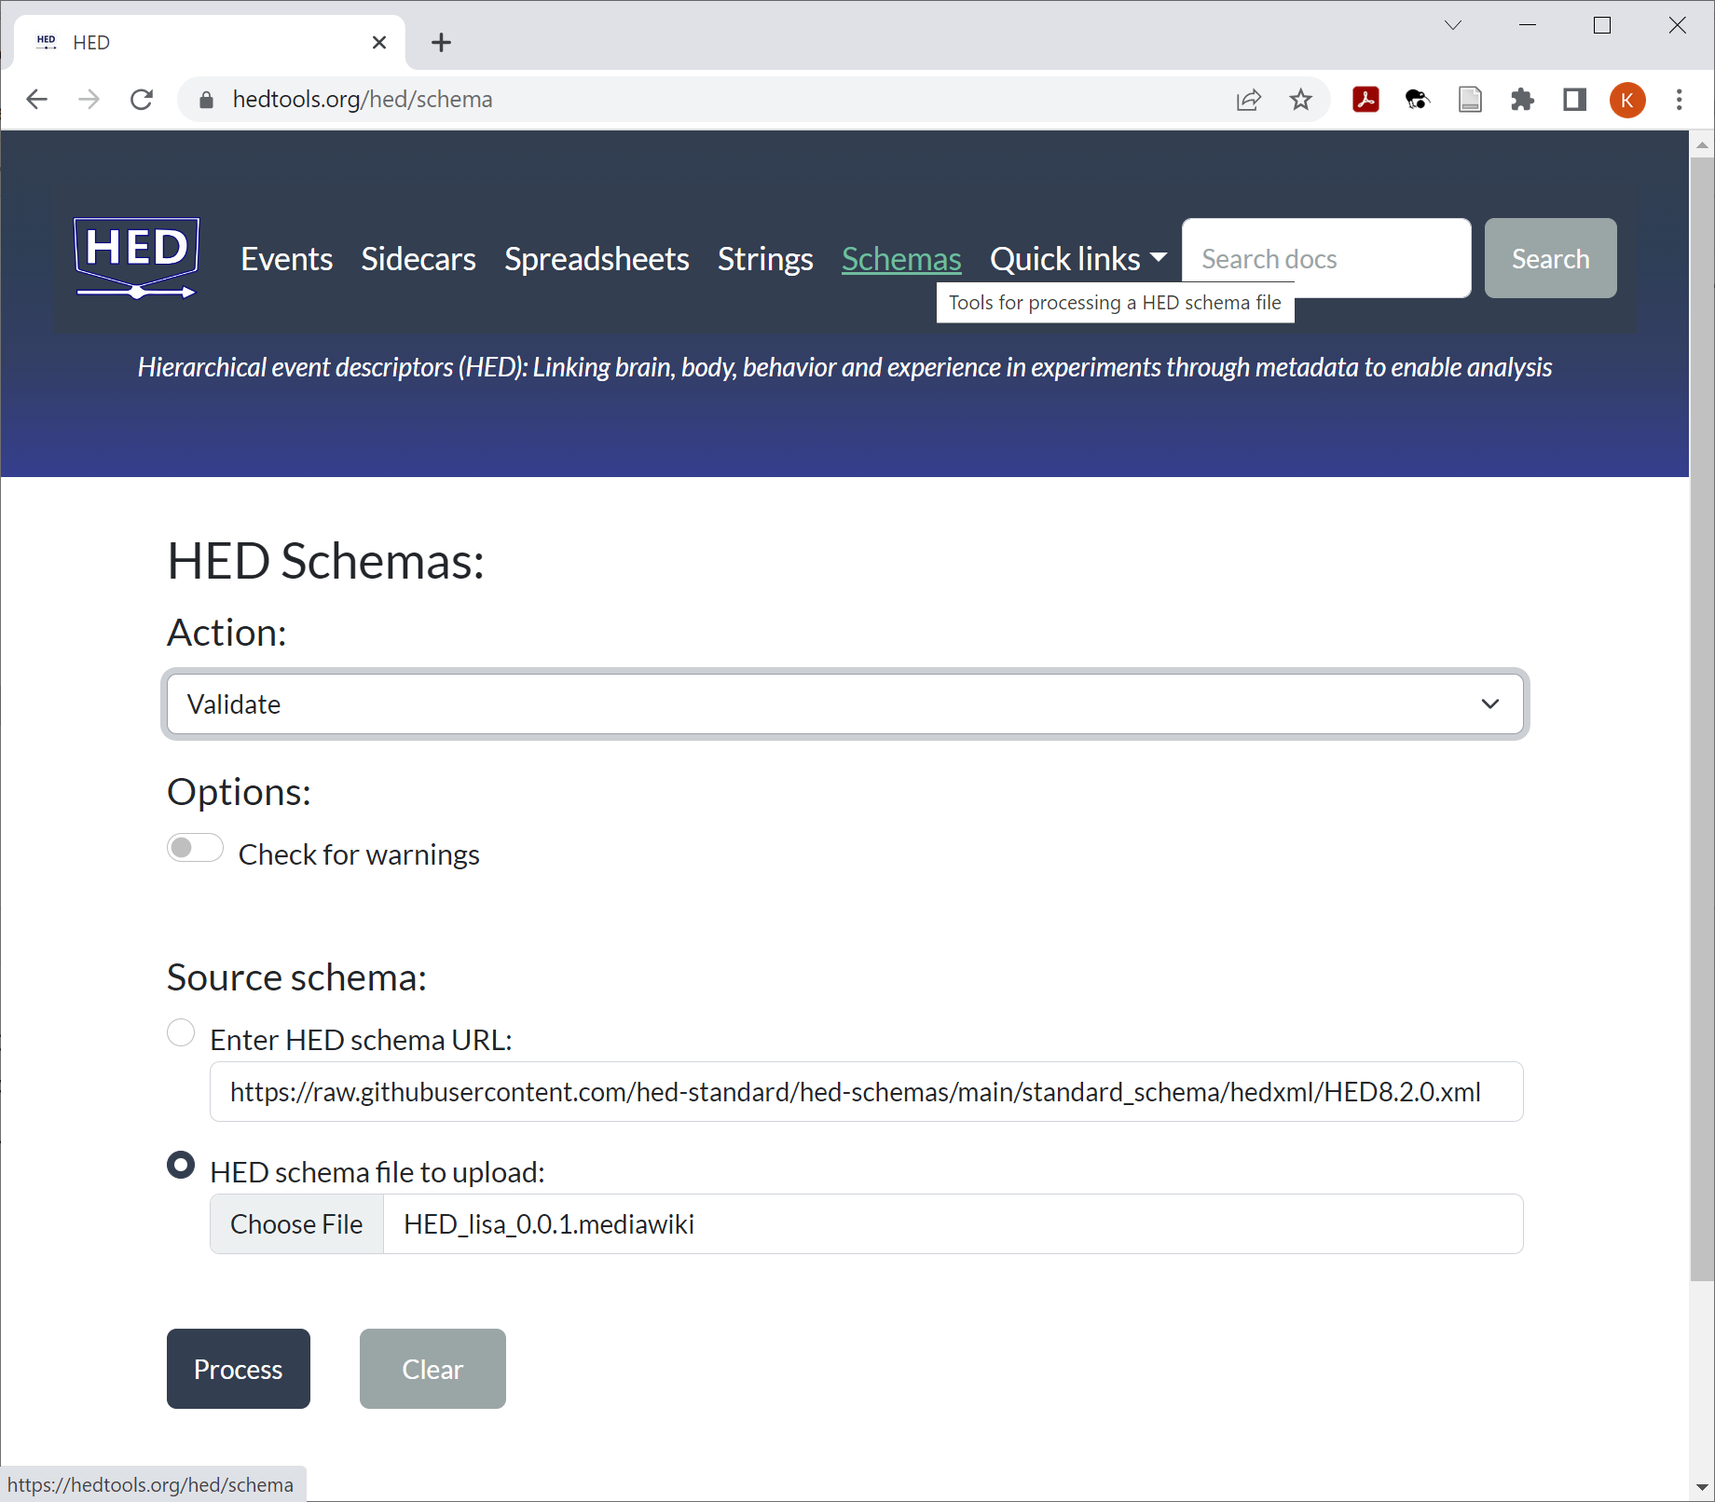
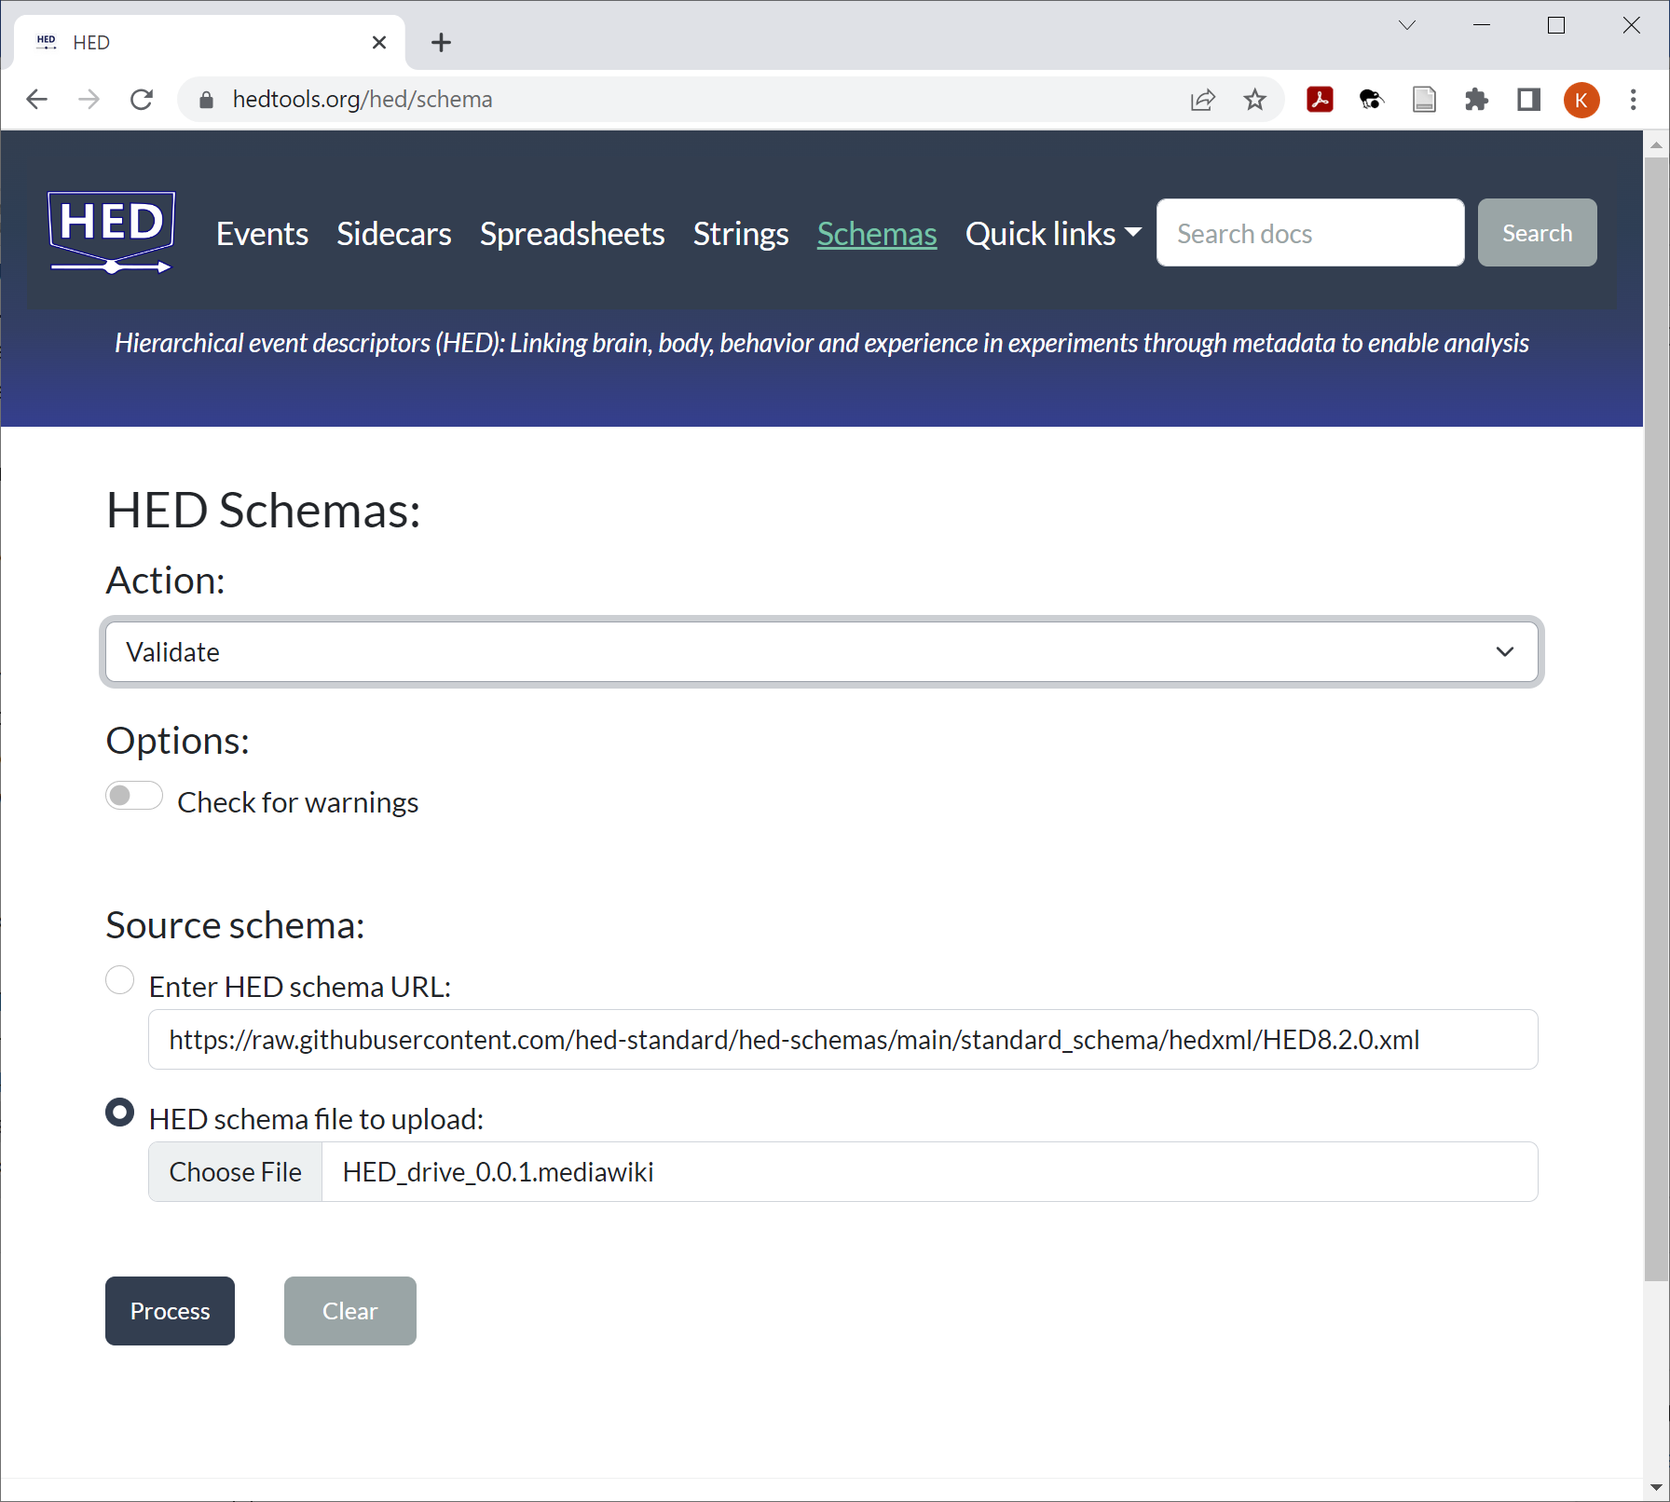
Continued rewrite of the schema developer's guide

diff --git a/docs/source/HedSchemaDevelopersGuide.md b/docs/source/HedSchemaDevelopersGuide.md
@@ -73,6 +73,8 @@ However, the tag names in the schema document follow the following conventions:
 - All letters in a tag name except for the first character are in lower case.  
 - Tags representing multiple words are hyphenated.
 
+The [**Naming conventions**](https://hed-specification.readthedocs.io/en/latest/03_HED_formats.html#naming-conventions) 
+section of the HED specification gives a complete discussion of naming conventions.
 
 ### Design principles for schema
 
@@ -147,8 +149,55 @@ to be placed under a node in the standard schema by giving it the `rooted=XXX`
 attribute, where `XXX` is the name of the parent node in
 the standard schema under which the subtree should be rooted.
 
+### Naming your schema
+
+Before starting, you must decide on a name for your schema.
+It should be a relatively short, informative, alphabetic string.
+The name can be an acronym or a meaningful name, 
+but it cannot be the same name as any other recognized HED schema.
+
+The SCORE library, for example, is an acronym based on its derivation from the
+SCORE standard: Standardized Computer Based Organized Reporting of EEG.
+The LISA library, a language schema now in prerelease, is another acronym standing for
+LInguistic Stimuli Annotation.
+A good name for the schema with vocabulary to describe experiments
+involving simulated driving might be DRIVE.
+
+### Getting listed
+
+To get recognized as a HED library schema project,
+post an issue to the hed-schemas [**issue forum**](https://github.com/hed-standard/hed-schemas/issues) with a brief overview
+of your schema, its purpose, and your development team.
+The HED Working Group will work with you to get started.
+
+As part of the initiation process, the HED Working Group
+will create a subdirectory in the
+[**library_schemas**](https://github.com/hed-standard/hed-schemas/tree/main/library_schemas)
+directory in the [**hed-schemas**](https://github.com/hed-standard/hed-schemas)
+GitHub repository.
+
+The new directory will named with the name of your schema and have a **prerelease** subdirectory.
+You will use the GitHub Pull Request (PR) mechanism to make changes in 
+this directory. 
+
+### Schema file names
+
+All HED schemas, including library schemas, adhere to [**semantic versioning**](https://semver.org/). 
+The rules for what constitutes major, minor and patch changes are given
+in the hed-schemas [**README**](https://github.com/hed-standard/hed-schemas/#hed-semantic-versioning).
+
+Suppose you are just starting to create a library called DRIVE for
+a vocabulary specific to simulated driving tasks.
+You should name your first version of your schema `drive_0.0.1.mediawiki`.
+This file will eventually go in the prerelease directory for your directory
+on [**hed-schemas**](https://github.com/hed-standard/hed-scheams).
 
 ## Creating your schema
+
+The following sections briefly describe how to go about actually creating your schema
+files.
+
+### Introducing MediaWiki
 
 Schema developers work with HED schema in `.mediawiki` format for ease in editing.
 MediaWiki is a markdown-like text format that can be displayed
@@ -169,213 +218,104 @@ as illustrated in the following example:
 ```
 ````
 
+The MediaWiki GitHub previewer shows this as:
+
+![GitHubPreview](./_static/images/GitHubPreviewOfMediaWiki.png)
+
 Each line in the MediaWiki file represents a distinct tag (or other schema entity),
 so `Top-level-`, `Child-1`, `Grandchild-1`, and `Child-2` are all
 tags or terms in the schema.
+
 Lines defining tags cannot be split.
 
 Everything after the tag name should be enclosed in
-&lt;nowiki&gt; &lt;/nowiki&gt; delimiters.
+<b>&lt;nowiki&gt; &lt;/nowiki&gt;</b> delimiters.
 The tag description appears in square brackets ([ ]),
 while the schema attributes such as `extensionAllowed` are
 enclosed in curly braces ({ }).
 
-Each tag line should always inc
-or other schema element.
-The tag `Top-level-1` is a top-level tag, a root of one of the schema's trees,
+The tag `Top-level-1`, which is a top-level tag or root of one of the schema's trees,
 represents a major category in the schema. Top-level tags are enclosed in 
 sets of three consecutive single quotes.
-In contrast child tags a
-HED tools generally use XML versions of the HED schema. 
 
+In contrast, child tags  such as `Child-1` appear on lines that start
+with 1 or more asterisks (`*`), indicating the level of indentation or
+alternatively depth in the schema tree.
 
+### Defining a schema
 
-As in Python programming packages, we anticipate that many HED schema libraries may be defined 
-and used, in addition to the base HED schema. Libraries allow individual research or
-clinical communities to annotate details of events in experiments designed to answer questions 
-of interest to particular to those communities.
+We assume that you are going to develop a partnered library schema,
+which require only the schema tags and no auxiliary sections.
+Unpartnered schemas require that the auxiliary sections to be provided,
+while partnered schemas use the auxiliary sections from their standard
+schema partner.
 
-Since it would be impossible to avoid naming conflicts across schema libraries
-that may be built in parallel by different user communities,
-HED supports schema library namespaces.
-Users will be able to add library tags qualified with [namespace designators](##schema-namespaces).
-
-All HED schemas, including library schemas, adhere to [semantic versioning](https://semver.org/). 
-
-
-## Defining a schema
-
-A HED library schema is defined in the same way as the base HED schema except that it has an
-additional attribute name-value pair, `library="xxx"` in the schema header. We will use as an
-illustration a library schema for driving. Syntax details for a library schema are similar to
-those for the base HED schema.
-See the [HED schema format specification](https://hed-specification.readthedocs.io/en/develop/03_HED_formats.html)
-for more details.
+The following illustrates the format for using an
+exemplar library schema called drive. 
 
 ````{admonition} **Example:** Driving library schema (MEDIAWIKI template).
 
 ```moin
-HED library="driving" version="1.0.0" 
-!# start schema 
-   [... contents of the HED driving schema ...]
-!# end schema
-   [... required sections specifying schema attribute definitions ...]
-!# end hed
+HED library="drive" version="0.0.1" withStandard="8.2.0" unmerged="true"
+
+'''Prologue'''
+Drive has tags of interest to driving experiments.
+
+!# start schema
+
+'''Vehicle-part''' <nowiki>{rooted=Device}[Parts of a vehicle of any kind.]</nowiki>
+* Steering-device <nowiki>[The part of a vehicle used for steering.]</nowiki>
+** Steering-wheel <nowiki>[A wheel used for steering as for a car.]</nowiki>
+** Steering-yoke <nowiki>[A horizontal column used for steering, primarily in aircraft.]</nowiki>
+* Brake-device <nowiki>[A part of a vehicle used for steering]</nowiki>
+
+!# end schema 
+
+!# end hed 
+
 ```
 ````
 
-The required sections specifying the [schema attributes](##attributes-and-classes)  are *unit-class-specification*, 
-*unit-modifier-specification*, *value-class-specification*, *schema-attribute-specification*,
-and *property-specification*.
+This schema would be saved in a MediaWiki file called `drive_0.0.1.mediawiki`.
+To start developing simply replace "drive" with the name of your schema
+and replace the drive tags with your own.
 
-````{admonition} **Example:** Driving library schema (XML template).
+### Checking syntax
 
-```xml
-<?xml version="1.0" ?>
-<HED library="driving" version="1.0.0">
-    [... contents of the HED_DRIVE schema ... ]
-</HED>
-```
-````
+You should validate your schema frequently when developing it using
+the [**HED online tools**](https://hedtools.org).
 
-The schema XML file should be saved as `HED_driving_1.0.0.xml` to facilitate 
-specification in tools.
+The following tools shows screen shows the user interface for
+validating your schema using the online tools.
 
-## Schema namespaces
+![ValidateSchema](./static/images/validateSchema.png)
 
-As part of the HED annotation process, users must associate a standard HED schema with their
-datasets. Users may also include tags from an arbitrary number of additional library schemas.
-For each library schema used to annotate a data recording, the user must associate a local 
-name with the appropriate library schema name and version. Each library must be associated 
-with a distinct local name within a recording annotations. The local names should be 
-strictly alphabetic with no blanks or punctuation. 
+Simply choose the MediaWiki file you wish to valid,
+select the *Validate* action and press *Process.
+If your file has errors, a text file containing the errors will become
+available.
 
-The user must pass information about the library schema and their associated local names to 
-processing functions. HED uses a standard method of identifying namespace elements by prefixing
-HED library schema tags with the associated local names. Tags from different library schemas can
-be intermixed with those of the base schema. Since the node names within a library must be
-unique, annotators can use short form as well as fully expanded tag paths for library schema 
-tags as well as those from the base-schema.
+### Converting to XML
 
-````{admonition} **Example:** Driving library schema example tags.
+Although developers use th Mediawiki format, tools access the
+schema in XML format.
+Use the [**HED online tools**](https://hedtools.org) to convert as shown in the following screenshot:
 
-```
-dp:Action/Drive/Change-lanes
-dp:Drive/Change-lanes
-dp:Change-lanes
-```
-````
-
-A colon (`:`) is used to separate the qualifying local name from the remainder of the tag. 
-Notice that *Action* also appears in the standard HED schema. Identical terms may be used 
-in a library schema and the standard HED schema. Use of the same term implies a similar 
-purpose. **Library schema developers should try not to reuse terms in the standard schema 
-unless the intention is to convey a close or identical relationship.**
-
-### Partnered Schemas
-Starting with HED schema version **8.2.0**, HED supports **partnered schemas**,
-which are library schemas that are merged with a standard schema.
-Partnered schemas allow schema designers to include library
-tags that are elaborations of tags in the standard schema in addition to other
-specialized tags. See the [HED schemas documentation](https://www.hed-resources.org/en/latest/HedSchemas.html#types-of-schemas) for more details.
-
-## Attributes and classes
-
-In addition to the specification of tags in the main part of a schema, a HED schema has 
-sections that specify unit classes, unit modifiers, value classes, schema attributes, 
-and properties. The rules for the handling of these sections for a library schema are 
-as follows:
-
-### Required sections
-
-The required sections of a library schema are: the *schema-specification*, 
-the *unit-class-specification*, the *unit-modifier-specification*, 
-the *value-class-specification* section, the *schema-attribute-specification* section, 
-and the *property-specification*. The library schema must include all required 
-schema sections even if the content of these sections is empty.
-
-### Relation to base schema
-
-Any schema attribute, unit class, unit modifier, value class, or property used in the
-library schema must be specified in the appropriate section of the library schema
-regardless of whether these appear in base schema. Validators check the library
-schema strictly on the basis of its own specification without reference to another 
-schema.
+![ValidateSchema](./static/images/validateSchema.png)
 
 
-
-### Unit classes
-
-The library schema may define unit classes and units as desired or include unit classes or 
-units from the base schema. Similarly, library schema may define unit modifiers or 
-reuse unit modifiers from the base schema. HED validation and basic analysis tools 
-validate these based strictly on the schema specification and do not use any outside 
-information for these.
-
-### Value classes
-
-The standard value classes (*dateTimeClass[*]*, *nameClass*, *numericClass[*]*, 
-*posixPath[*]*, *textClass[*]*) if used, should have the same meaning as in the 
-base schema. The hard-coded behavior associated with the starred ([*]) value 
-classes will be the same. Library schema may define additional value classes and 
-specify their allowed characters, but no additional hard-coded behavior will be 
-available in the standard toolset. This does not preclude special-purpose tools 
-from incorporating their own behavior.
-
-### Schema attributes
-
-The standard schema attributes (*allowedCharacter*, *defaultUnits*, *extensionAllowed*,
-*recommended*, *relatedTag*, *requireChild*, *required*, *SIUnit*, *SIUnitModifier*,
-*SIUnitSymbolModifier*, *suggestedTag*, *tagGroup*, *takesValue*, *topLevelTagGroup*, 
-*unique*, *unitClass*, *unitPrefix*, *unitSymbol*, *valueClass*) should have the same
-meaning as in the base schema. The hard-coded behavior associated with the schema 
-attributes will be the same. Library schema may define additional schema attributes. 
-They will be checked for syntax, but no additional hard-coded behavior will be available
-in the standard toolset. This does not preclude special-purpose tools from incorporating
-their own behavior.
-
-### Schema properties
-
-[**Schema properties**](https://hed-specification.readthedocs.io/en/latest/03_HED_formats.html#schema-properties) apply to schema attributes
-and indicate what the type of the schema attribute is.
-You should not add properties to your library schema as
-the handling of the schema properties is hard-coded into the HED tools.
-If you feel that there is a property that is needed,
-please post an issue on the hed-schemas GitHub 
-[**issues forum**](https://github.com/hed-standard/hed-schemas/issues).
-You can view them HED only supports the schema properties listed in Table B.2: *boolProperty*, 
-*unitClassProperty*, *unitModifierProperty*, *unitProperty*, and *valueClassProperty*.  
-If the library schema uses one of these in the library schema specification, 
-then its specification must appear in the *property-specification* section of the library schema.
-
-### Schema development process
+### Summarizing the process
 
 
 ````{admonition} **Standard development process for XML schema.**
 :class: tip
 
 1. Create or modify a `.mediawiki` file containing the schema.
-2. Validate the `.mediawiki` file using the [**HED online tools**](https://hedtools.ucsd.edu/hed/schema).
-3. Convert to `.xml` using the [**HED online tools**](https://hedtools.ucsd.edu/hed/schema).
+2. Validate the `.mediawiki` file using the [**HED online tools**](https://hedtools.org/hed/schema).
+3. Convert to `.xml` using the [**HED online tools**](https://hedtools.org/hed/schema).
 4. Act according to the (Procedure for updating a schema)[## Procedure for updating a schema] section to contribute your changes to the GitHub [**HED schemas repository**](https://github.com/hed-standard/hed-schemas).
-5. View in the [**expandable schema viewer**](https://www.hedtags.org/display_hed.html) to verify.
+5. View in the [**HED schema viewer**](https://www.hedtags.org/display_hed.html) to verify.
 ````
-
-## Syntax checking
-
-Regardless of whether a specification is in the standard schema or a library schema,
-HED tools can perform basic syntax checking.
-
-````{admonition} Basic syntax checking for library schema.
-:class: tip
-
-1. All attributes used in the schema proper must be defined in the schema attribute section of the schema.
-2. Undefined attributes cause an error in schema validation.
-3. Similar rules apply to unit classes, unit modifiers, value classes, and properties.
-4. Actual handling of the semantics by HED tools only occurs for entities appearing in the base schema.
-````
-
-## Procedure for updating a schema
 
 ### Proposing changes
 As modifications to the HED schema are proposed, they are added to the
@@ -384,6 +324,7 @@ As changes are accepted, they are incorporated into the
 **prerelease** version of the schema and added as part of the 
 **prerelease CHANGES.md**. 
 These files are located in the **prerelease** subdirectory for the respective schema.
+
 Examples of these files for the standard schema can be found in the standard schema [**prerelease directory**](https://github.com/hed-standard/hed-schemas/tree/main/standard_schema/prerelease).
 This is viewable in the [**Expandable html view of the prerelease HED schema**](https://www.hedtags.org/display_hed_prerelease.html) 
 
@@ -394,22 +335,24 @@ the mediawiki file is copied to the [**hedwiki directory**](https://github.com/h
 
 ## Further documentation
 
-The documentation on this page refers specifically to the HED vocabulary and supporting tools. Additional documentation is available on:
+The documentation on this page refers specifically to the HED vocabulary and supporting tools. Additional documentation is available on the following sites:
 
-> [**HED organization website**](https://www.hedtags.org)
+> [**HED project homepage**](https://www.hedtags.org) directs users to
+> appropriate places to find information.
 
-All of the HED software is open-source and organized into various repositories on the HED standards organization website:
 
-> [**HED organization github repository**](https://github.com/hed-standard)
-The [hed-schemas](https://github.com/hed-standard/hed-schemas) GitHub repository contains the HED schema specification, 
-where discussions on schema terms and syntax are held via Github issue mechanism and where HED-supporting tools can find machine-readable format of the schema.
 
-The HED schema is available in MediaWiki and XML:
-* The MediaWiki markdown format, stored in [`hedwiki`](https://github.com/hed-standard/hed-specification/tree/master/hedwiki),
-allows vocabulary developers to view and edit the vocabulary tree using a 
-human-readable Markdown language available in Wikis and on GitHub repositories. 
-* All analysis and validation tools operate on an XML translation of the vocabulary 
-markdown document, stored in [`hedxml`](https://github.com/hed-standard/hed-specification/tree/master/hedxml). 
+> [**HED organization**](https://github.com/hed-standard) GitHub
+> organization houses the repositories holding HED source (all of which is open).
 
-In addition, an expandable non-editable [HTML viewer](http://www.hedtags.org/display_hed.html)  is available
-to help users explore the vocabulary.
+>[**hed-schemas**](https://github.com/hed-standard/hed-schemas) 
+> GitHub repository houses all HED schemas in a form that
+> can be accessed by tools at runtime.
+
+>[**HED Resources**](https://www.hed-resources.org) 
+> is the main site for HED documentation and tutorials.
+
+> [**HED Specification**](https://hed-specification.readthedocs.io/en/latest/index.html) 
+> displays the HED specification.
+
+> [**HED web viewer**](http://www.hedtags.org/display_hed.html) allows users to explore the schemas that have been uploaded to [**hed-schemas**](https://github.com/hed-standard/hed-schemas).
